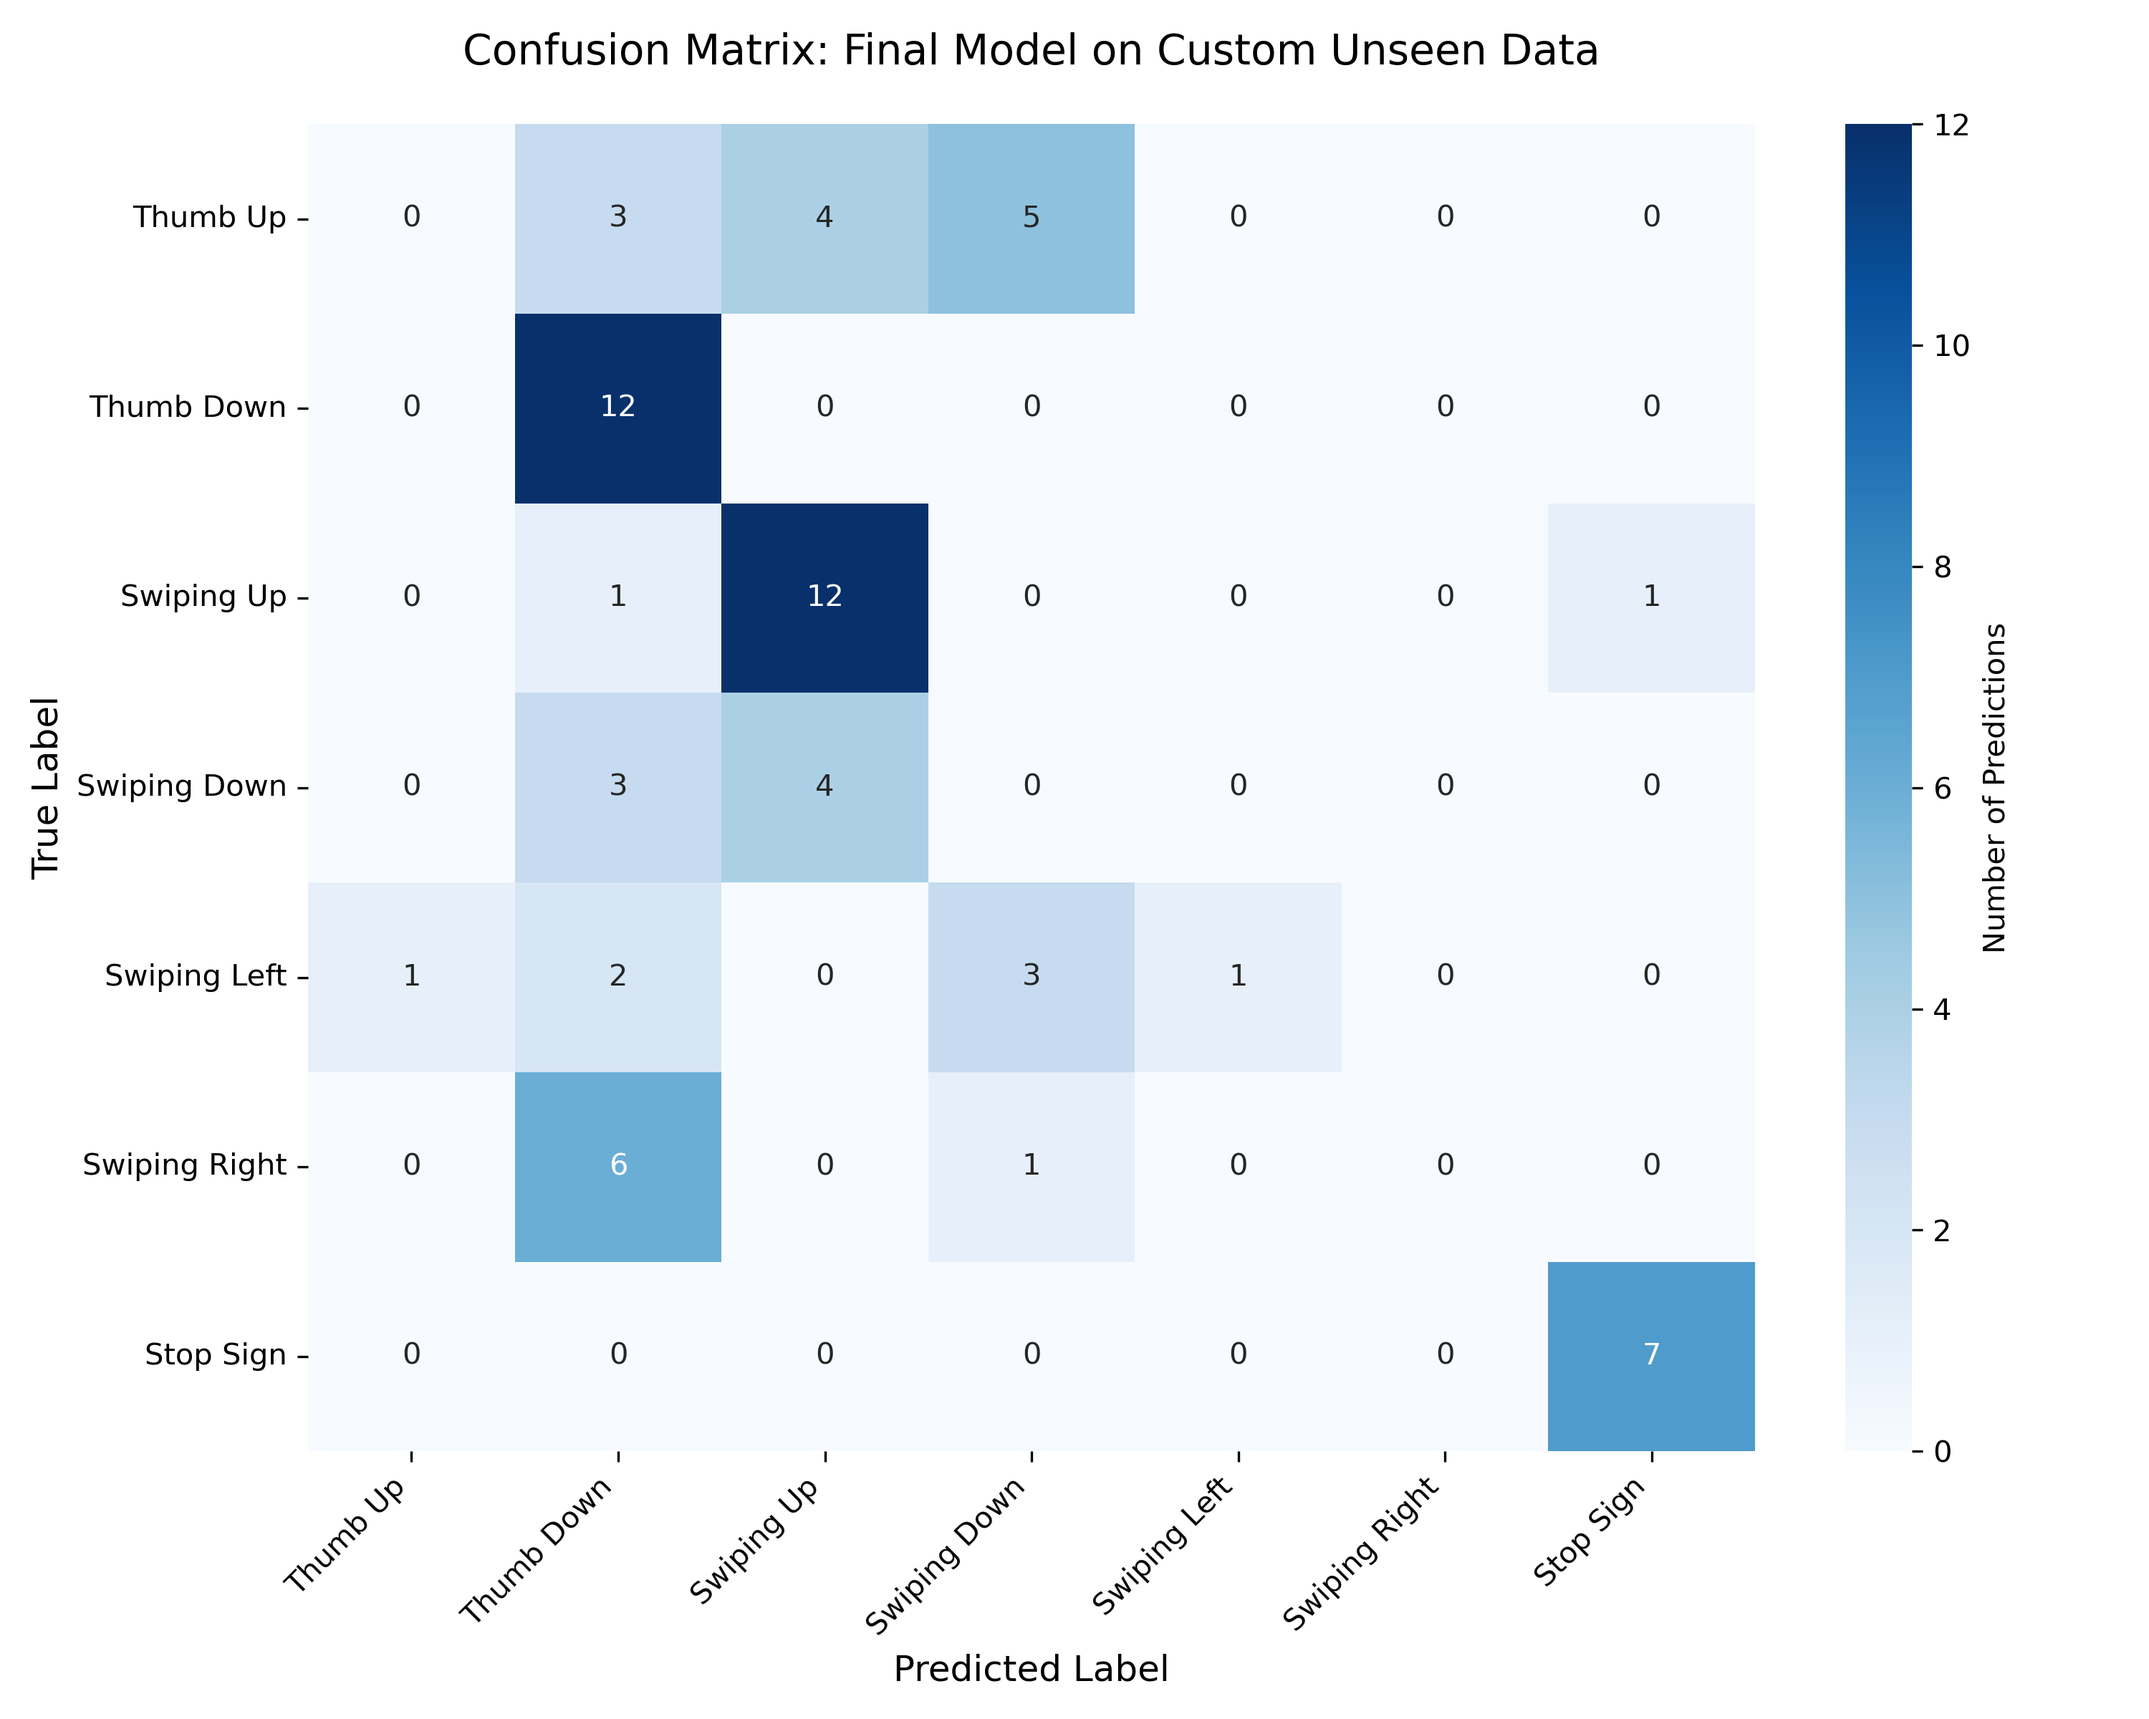
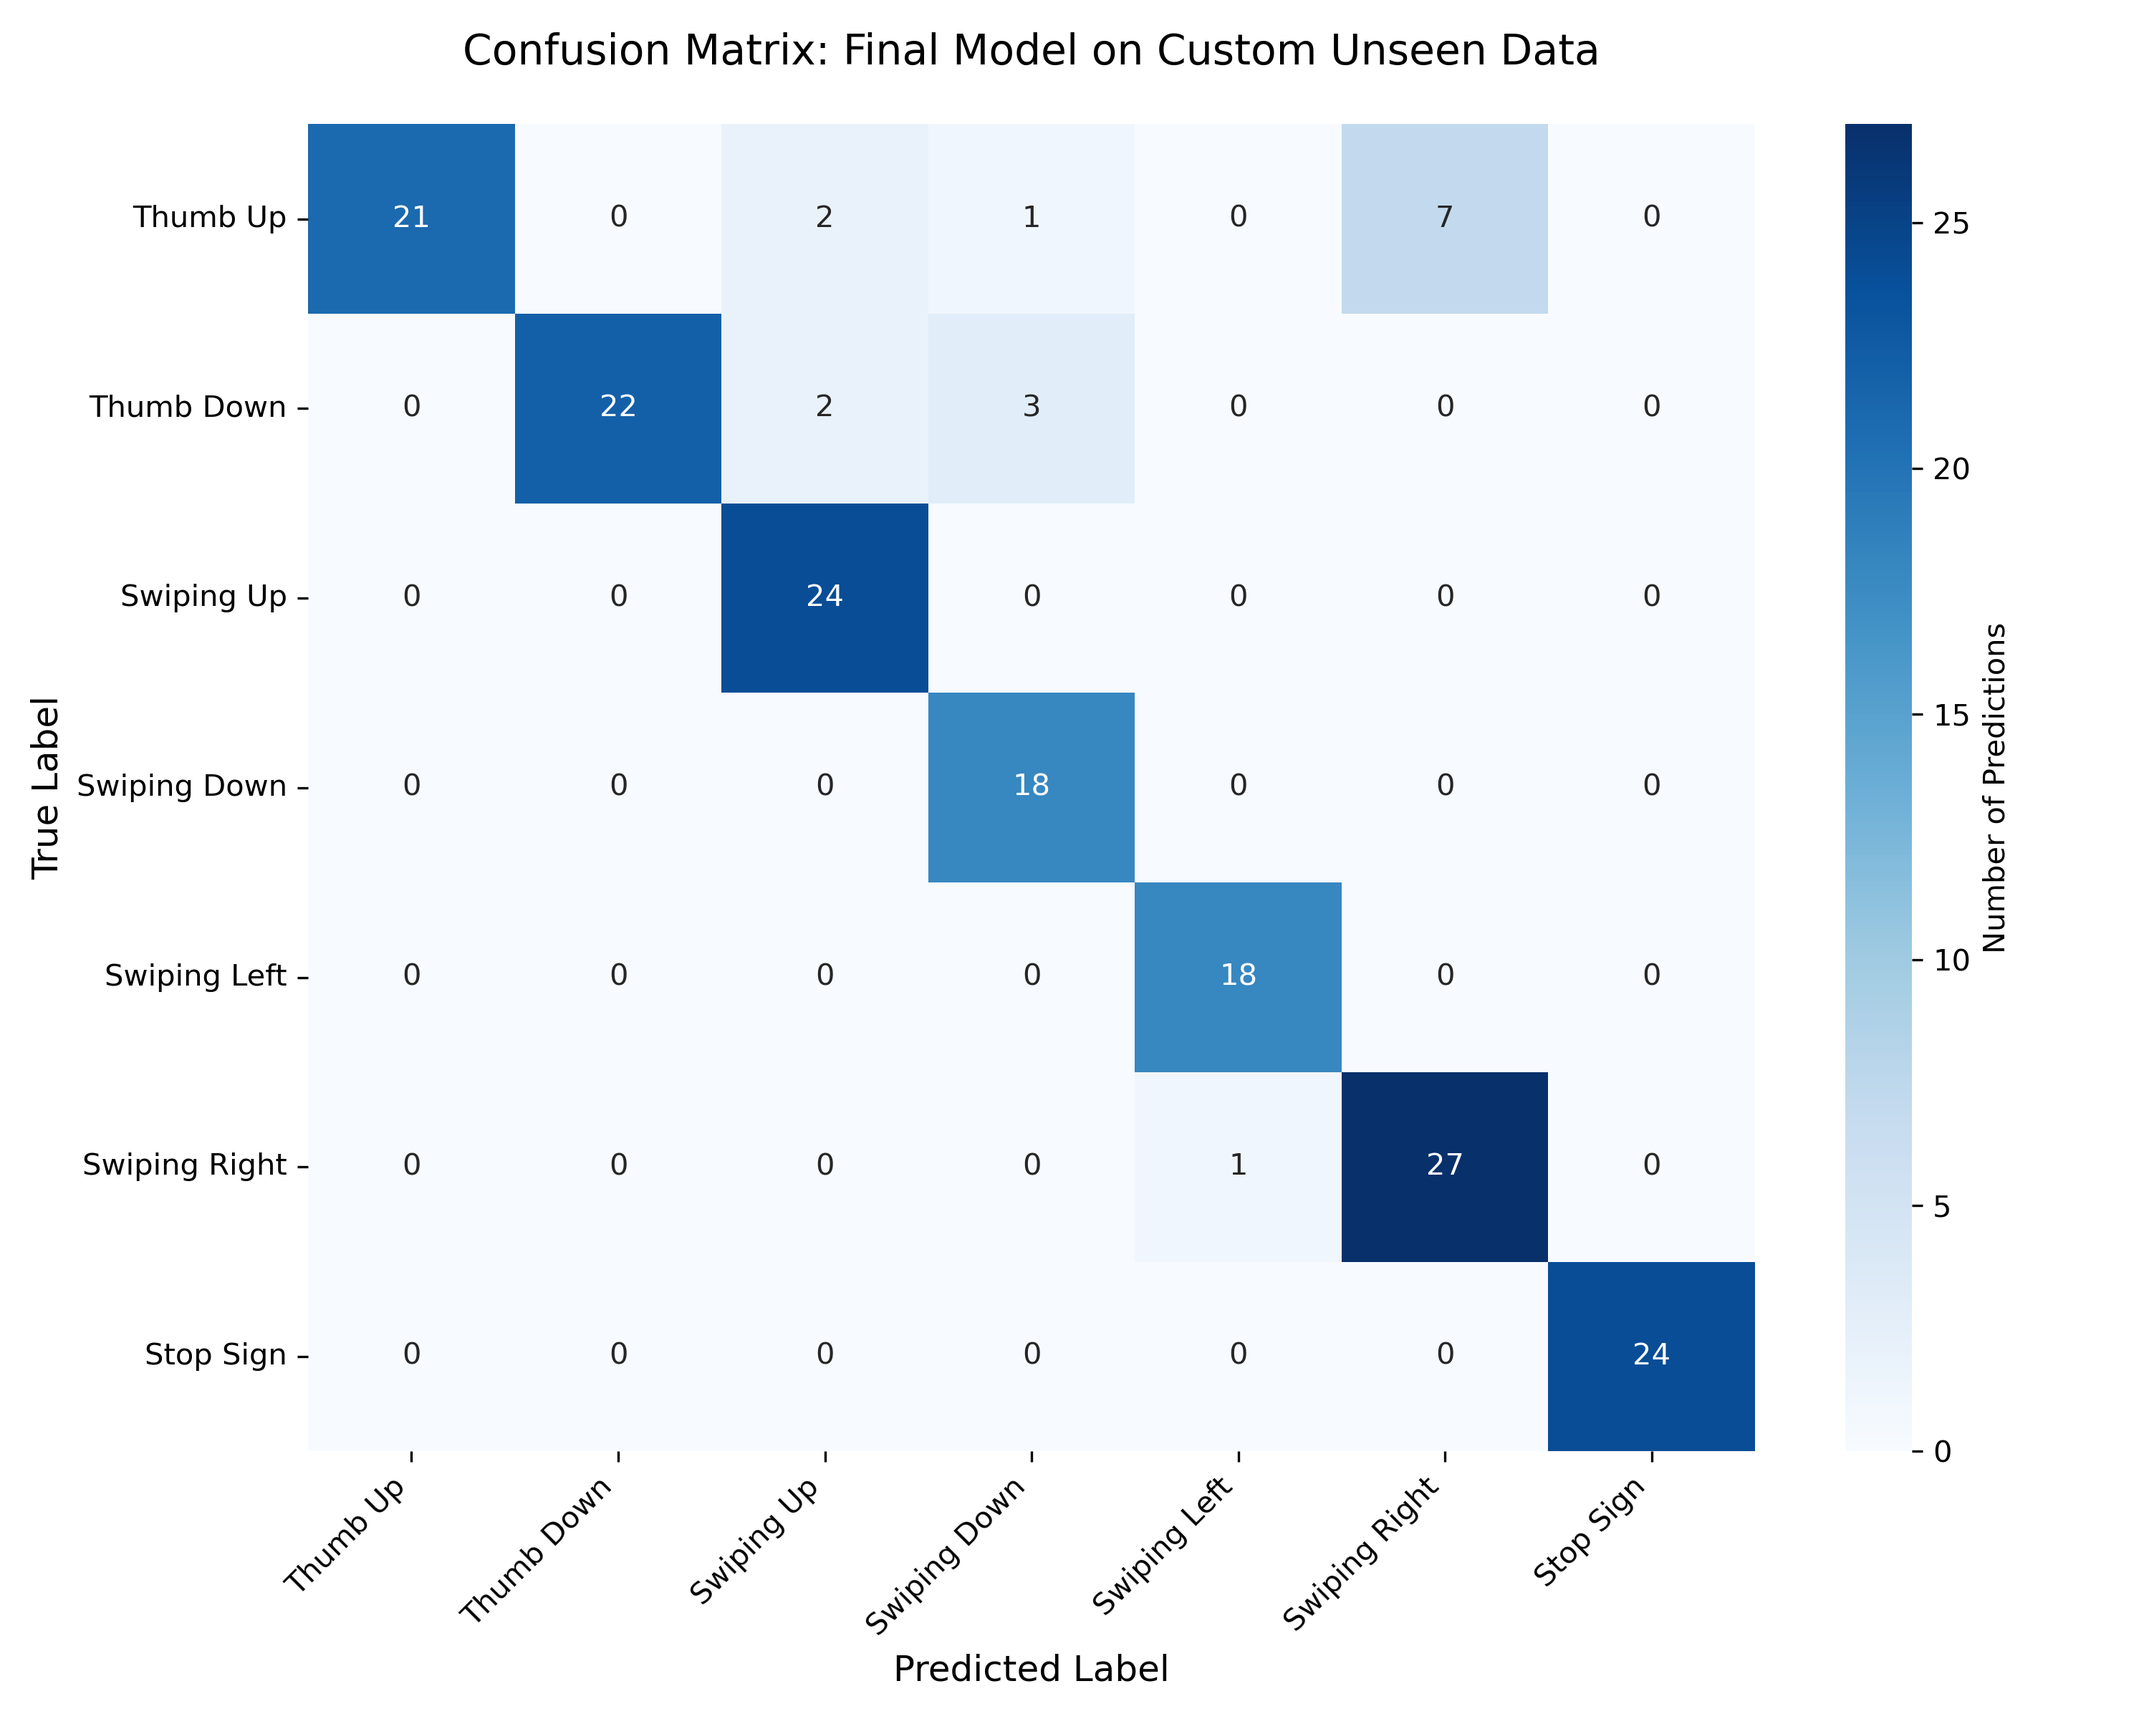
final phase edit

Changed region(s): [[0.124, 0.0625, 0.837, 0.8438], [0.62, 0.0625, 0.744, 0.1875]]

diff --git a/src/evaluation/plot_final_curves.py b/src/evaluation/plot_final_curves.py
@@ -1,0 +1,49 @@
+import matplotlib.pyplot as plt
+import numpy as np
+
+def plot_final_results():
+    epochs = np.arange(1, 21)
+    val_accs = [
+        86.70, 92.12, 92.30, 92.53, 93.87, 92.71, 93.35, 93.64, 94.69, 93.12,
+        92.94, 93.93, 92.47, 95.45, 93.76, 92.94, 95.39, 93.93, 94.81, 94.52
+    ]
+    peak_epoch = np.argmax(val_accs) + 1
+    peak_acc = val_accs[peak_epoch - 1]
+
+    train_loss_epochs = np.arange(1, 21)
+    train_losses = [
+        0.2105, 0.4810, 0.2380, 0.0032, 0.0053, 0.0116, 0.1639, 0.4366, 0.0218, 0.0008,
+        0.0061, 0.0008, 0.0008, 0.0002, 0.0022, 0.0574, 0.0007, 0.0002, 0.0026, 0.0002
+    ]
+
+    fig, (ax1, ax2) = plt.subplots(2, 1, figsize=(8, 10), sharex=True)
+    plt.style.use('seaborn-v0_8-paper')
+
+    ax1.plot(train_loss_epochs, train_losses, 'r-o', markersize=4, label='Training Loss (Last Step in Epoch)')
+    ax1.set_ylabel('Loss', fontsize=12, fontweight='bold')
+    ax1.set_title('Final Model (CNN-LSTM) Training & Validation History', fontsize=14, fontweight='bold', pad=15)
+    ax1.grid(True, linestyle='--', alpha=0.7)
+    ax1.legend()
+
+    ax2.plot(epochs, val_accs, 'b-s', markersize=4, label='Jester Validation Accuracy')
+    
+    ax2.scatter(peak_epoch, peak_acc, s=150, c='red', marker='*', zorder=5)
+    ax2.annotate(f'Peak: {peak_acc:.2f}% (Model Saved)', 
+                 xy=(peak_epoch, peak_acc), xytext=(peak_epoch-4, peak_acc-3),
+                 arrowprops=dict(facecolor='black', shrink=0.05, width=2, headwidth=8),
+                 fontsize=11, fontweight='bold', color='red')
+    
+    ax2.set_xlabel('Epochs', fontsize=12, fontweight='bold')
+    ax2.set_ylabel('Accuracy (%)', fontsize=12, fontweight='bold')
+    ax2.grid(True, linestyle='--', alpha=0.7)
+    ax2.set_ylim(80, 100) 
+    ax2.legend()
+
+    plt.tight_layout()
+    filename = 'learning_curves_final.png'
+    plt.savefig(filename, dpi=300) 
+    print(f"Successfully generated Final Learning Curves: {filename}")
+    plt.show()
+
+if __name__ == "__main__":
+    plot_final_results()

diff --git a/src/data_prep/prep_custom_data.py b/src/data_prep/prep_custom_data.py
@@ -2,6 +2,20 @@ import cv2
 import os
 import csv
 
+OFFICIAL_LABELS = {
+    "swipe_down": "Swiping Down",
+    "swiping_down": "Swiping Down",
+    "swipe_up": "Swiping Up",
+    "swiping_up": "Swiping Up",
+    "swipe_left": "Swiping Left",
+    "swiping_left": "Swiping Left",
+    "swipe_right": "Swiping Right",
+    "swiping_right": "Swiping Right",
+    "thumb_down": "Thumb Down",
+    "thumb_up": "Thumb Up",
+    "stop_sign": "Stop Sign"
+}
+
 def process_custom_videos():
     input_root = "Custom_Dataset"       
     output_root = "Custom_Frames"        
@@ -18,7 +32,12 @@ def process_custom_videos():
         if not os.path.isdir(gesture_dir):
             continue
             
-        
+        normalized_name = gesture_name.lower().replace(" ", "_")
+        formatted_label = OFFICIAL_LABELS.get(normalized_name)
+
+        if formatted_label is None:
+            continue
+            
         for video_file in os.listdir(gesture_dir):
             if not (video_file.endswith('.mp4') or video_file.endswith('.mov')):
                 continue
@@ -48,9 +67,6 @@ def process_custom_videos():
                 os.rmdir(video_out_dir)
                 continue 
             
-            formatted_label = gesture_name.replace("_", " ").title() 
-
-            
             csv_data.append([video_id, formatted_label])
             video_counter += 1
 
@@ -59,9 +75,7 @@ def process_custom_videos():
         for row in csv_data:
             writer.writerow(row)
             
-    print(f"\n Processed {video_counter-1} videos.")
-    print(f"Frames saved in: {output_root}/")
-    print(f"Labels saved in: {csv_file_path}")
+    print(f"CSV files saved to: {csv_file_path}")
 
 if __name__ == "__main__":
     process_custom_videos()

diff --git a/src/evaluation/eval_custom_data.py b/src/evaluation/eval_custom_data.py
@@ -61,9 +61,10 @@ def evaluate_on_custom_data():
     validation_dir = os.path.join(custom_root, "Validation")
     if not os.path.exists(validation_dir):
         os.makedirs(validation_dir)
-        for item in os.listdir(custom_root):
-            if item.startswith("custom_") and os.path.isdir(os.path.join(custom_root, item)):
-                shutil.move(os.path.join(custom_root, item), os.path.join(validation_dir, item))
+        
+    for item in os.listdir(custom_root):
+        if item.startswith("custom_") and os.path.isdir(os.path.join(custom_root, item)):
+            shutil.move(os.path.join(custom_root, item), os.path.join(validation_dir, item))
         
     custom_dataset = Jester3DDataset(csv_file=custom_csv, root_dir=custom_root, num_frames=8)
     custom_loader = DataLoader(custom_dataset, batch_size=4, shuffle=False)
